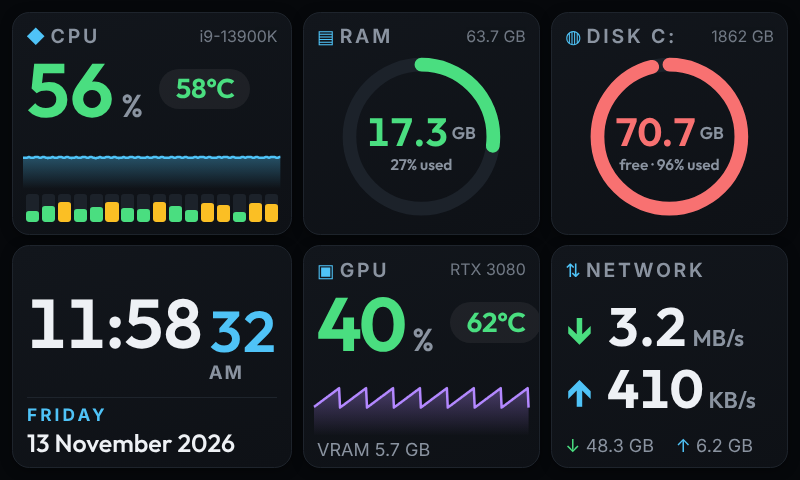
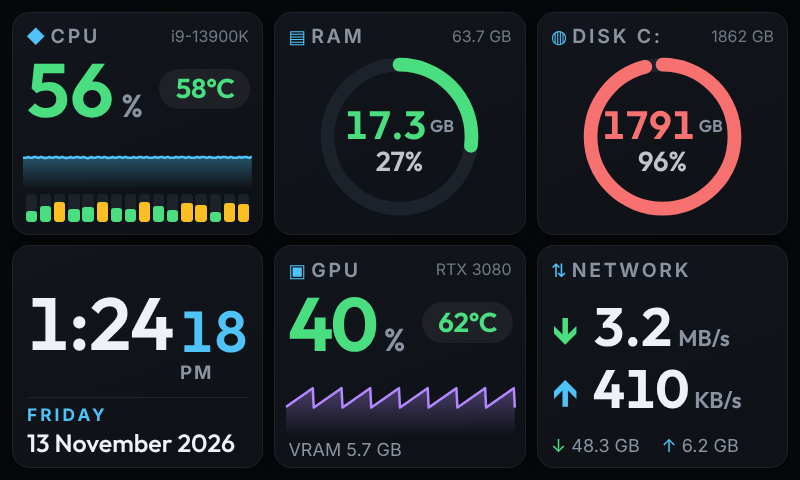
v1.6.0: equal columns, flag a frozen Windows CPU temperature
Claude-Session: https://claude.ai/code/session_012C1HCLEP1UKrgaqZb5bfPc

diff --git a/src/main.tsx b/src/main.tsx
@@ -43,6 +43,7 @@ type Stats = {
     cpuPower: number | null
     cpuClock: number | null
     fans: { name: string; rpm: number }[]
+    cpuTempStuck?: boolean
   }
   uptime: number
   host: string
@@ -295,7 +296,8 @@ function App() {
           <span style={{ color: tone(s!.cpu.total) }}>{s!.cpu.total}</span>
           <span className="unit">%</span>
           {cfg.cpuTempInPanel && c != null && (
-            <span className="chip" style={{ color: tempTone(c) }}>
+            <span className={`chip${s!.hw.cpuTempStuck ? ' stuck' : ''}`} style={{ color: s!.hw.cpuTempStuck ? undefined : tempTone(c) }}>
+              {s!.hw.cpuTempStuck ? '~' : ''}
               {temp(c)}
             </span>
           )}
@@ -419,7 +421,11 @@ function App() {
         )
       return (
         <div className="tile" key={key}>
-          <Head label="CPU temp" icon="✦" right={st.hw.cpuTempSource === 'LibreHardwareMonitor' ? 'LHM' : st.hw.cpuTempSource ? 'Windows' : undefined} />
+          <Head
+            label="CPU temp"
+            icon="✦"
+            right={st.hw.cpuTempStuck ? 'not live' : st.hw.cpuTempSource === 'LibreHardwareMonitor' ? 'LHM' : st.hw.cpuTempSource ? 'Windows' : undefined}
+          />
           <div className="big">
             <span style={{ color: tempTone(c) }}>{temp(c)}</span>
           </div>

diff --git a/server/index.ts b/server/index.ts
@@ -481,8 +481,12 @@ type Hw = {
   cpuPower: number | null
   cpuClock: number | null
   fans: { name: string; rpm: number }[]
+  // true when the reading hasn't moved for a long time (typical of the Windows ACPI thermal zone)
+  cpuTempStuck?: boolean
 }
 let hw: Hw = { cpuTemp: null, cpuTempSource: null, cpuPower: null, cpuClock: null, fans: [] }
+// recent CPU temperature readings, to spot a sensor that never changes
+const tempHistory: number[] = []
 
 type LhmNode = { Text?: string; Value?: string; Type?: string; SensorId?: string; ImageURL?: string; Children?: LhmNode[] }
 
@@ -711,7 +715,13 @@ async function readHw(): Promise<void> {
       next = { ...next, cpuTemp: w, cpuTempSource: w !== null ? 'Windows thermal zone' : null }
     }
     if (src === 'off') next = { ...next, cpuTemp: null, cpuTempSource: null }
-    hw = next
+    if (next.cpuTemp !== null) {
+      tempHistory.push(next.cpuTemp)
+      if (tempHistory.length > 30) tempHistory.shift()
+    }
+    // A real CPU sensor moves by at least a fraction of a degree within a minute or so; the ACPI zone often never does
+    const stuck = tempHistory.length >= 20 && Math.max(...tempHistory) - Math.min(...tempHistory) < 0.05
+    hw = { ...next, cpuTempStuck: stuck && next.cpuTempSource === 'Windows thermal zone' }
   } finally {
     hwBusy = false
   }

diff --git a/src/index.css b/src/index.css
@@ -40,7 +40,7 @@ body { font-family: 'Inter Variable', system-ui, -apple-system, 'Segoe UI', Robo
 
 .app {
   display: grid;
-  grid-template-columns: 1.18fr 1fr 1fr;
+  grid-template-columns: 1fr 1fr 1fr;
   grid-template-rows: 1fr 1fr;
   grid-gap: 2.2vh;
   gap: 2.2vh;
@@ -198,3 +198,4 @@ body { font-family: 'Inter Variable', system-ui, -apple-system, 'Segoe UI', Robo
 .br-sub { font-size: 32px; fill: var(--text); opacity: 0.8; }
 .cl-reset { font-size: 16px; fill: var(--text); opacity: 0.75; }
 .cl-reset { font-size: 19px; }
+.chip.stuck { color: var(--dim); opacity: 0.7; }

diff --git a/CHANGELOG.md b/CHANGELOG.md
@@ -1,5 +1,9 @@
 # Changelog
 
+## 1.6.0
+- All three columns are now the same width; tiles and their text, numbers and graphs fit the equal columns.
+- When the CPU temperature comes from the Windows thermal zone and never changes (a fixed motherboard value on many PCs), it's shown dimmed as "~28°C" and the CPU temp tile says "not live". Use LibreHardwareMonitor for the real CPU temperature.
+
 ## 1.5.3
 - The claude.ai session key setting now explains step by step where to find the key.
 
